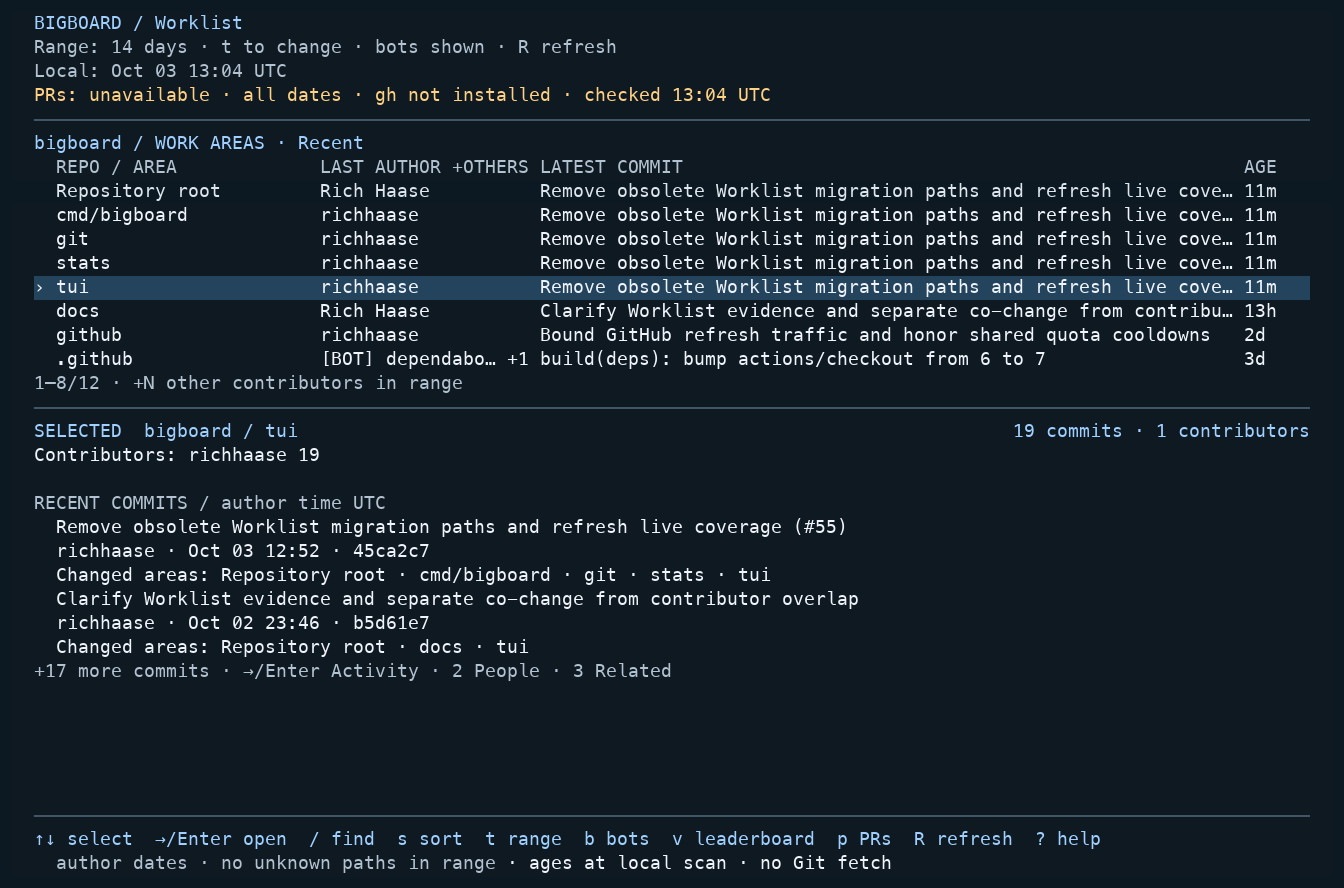
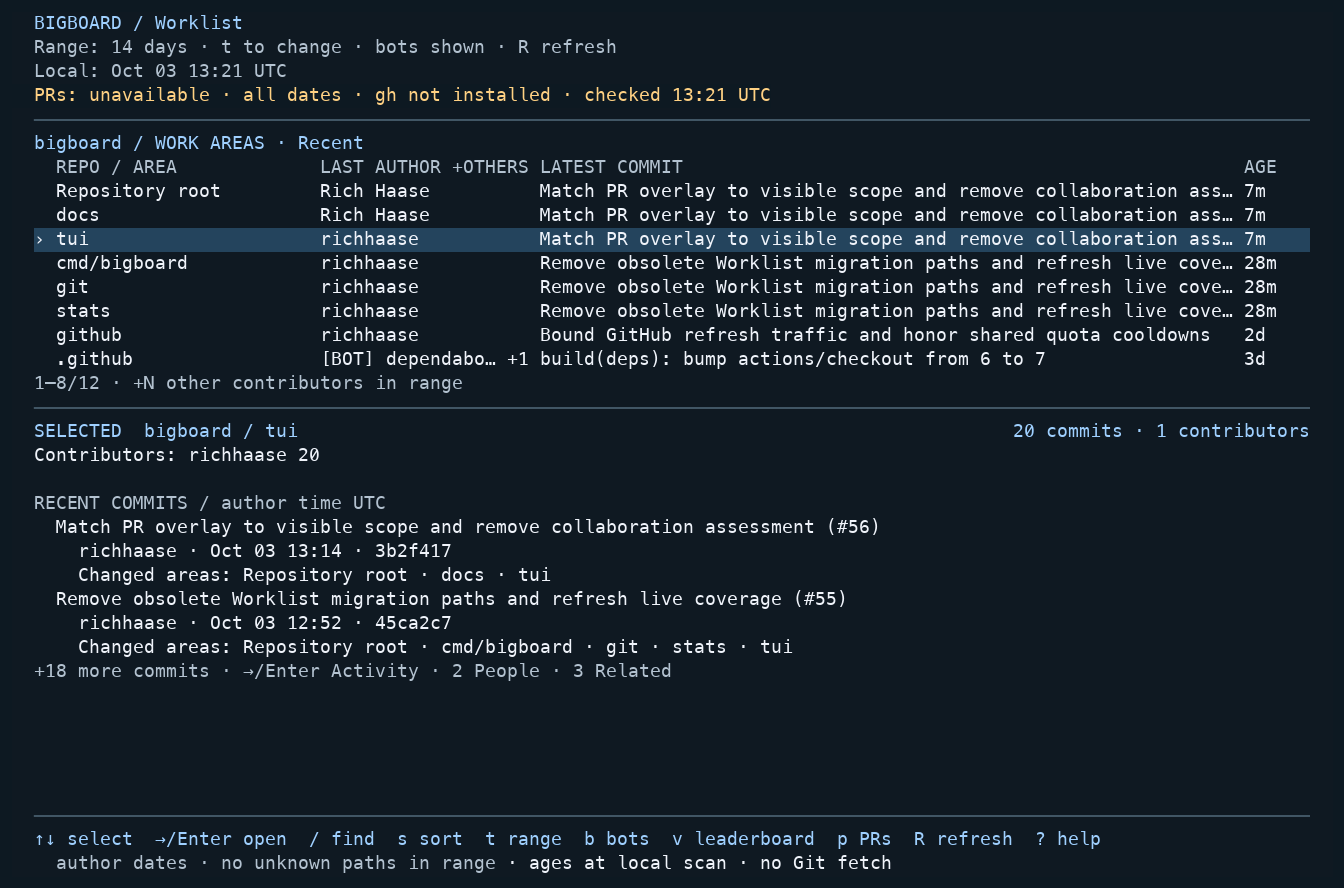
Fix PR overlay scope shortcuts and indent commit metadata

Changed region(s): [[0.0, 0.2128, 1.0, 0.3649], [0.0312, 0.5777, 0.6562, 0.7601], [0.1562, 0.0608, 0.1875, 0.0912]]

diff --git a/tui/pr_selection_test.go b/tui/pr_selection_test.go
@@ -96,3 +96,65 @@ func TestPRScopeRepositoryFallbackAndAllInventory(t *testing.T) {
 		t.Fatal("all-repository inventory was filtered by overview query")
 	}
 }
+
+func TestPROverlayScopeShortcuts(t *testing.T) {
+	for _, detail := range []bool{false, true} {
+		for _, query := range []string{"", "docs", "no-match"} {
+			m := prOnlySelectionFixture()
+			m.areaRepoID = "/api"
+			m.selectedAreaID = ""
+			m.glance.overviewQueries[1] = query
+			provider := &fakePRProvider{}
+			m.prProvider = provider
+			press := func(k string) {
+				t.Helper()
+				next, cmd := m.handleKey(key(k))
+				m = next.(Model)
+				if cmd != nil || provider.fetches != 0 || provider.resolves != 0 {
+					t.Fatalf("%s scheduled work", k)
+				}
+			}
+			press("P") // All-first must still resolve the visible scope on p.
+			for _, k := range []string{"p", "P", "P", "p", "p"} {
+				m.prDetail, m.prRow, m.prOffset = detail, 2, 8
+				press(k)
+				want := 3
+				if k == "p" {
+					want = map[string]int{"": 2, "docs": 1, "no-match": 0}[query]
+				}
+				if !m.showPRs || m.prAll != (k == "P") || m.prDetail || m.prRow != 0 || m.prOffset != 0 || len(m.visiblePRs()) != want {
+					t.Fatalf("detail=%v query=%q key=%s: all=%v detail=%v row=%d offset=%d count=%d want=%d", detail, query, k, m.prAll, m.prDetail, m.prRow, m.prOffset, len(m.visiblePRs()), want)
+				}
+			}
+			m.prDetail = true
+			press("esc")
+			if !m.showPRs || m.prDetail {
+				t.Fatal("Esc did not return to list")
+			}
+			press("esc")
+			if m.showPRs {
+				t.Fatal("Esc did not close list")
+			}
+		}
+	}
+}
+
+func TestPROverlayScopeEmptySnapshotAndParentDetail(t *testing.T) {
+	m := prOnlySelectionFixture()
+	m.areaRepoID, m.selectedAreaID = "/api", "root"
+	m = pressAwareness(m, "enter")
+	m = pressAwareness(m, "P")
+	next, cmd := m.handleKey(key("p"))
+	m = next.(Model)
+	if cmd != nil || len(m.visiblePRs()) != 2 || !m.glance.detailOpen {
+		t.Fatal("switching from all lost parent detail scope")
+	}
+	m.prState.snapshots = nil
+	for _, k := range []string{"P", "p"} {
+		next, cmd = m.handleKey(key(k))
+		m = next.(Model)
+		if cmd != nil || len(m.visiblePRs()) != 0 || !strings.Contains(m.View(), "No PRs to display") {
+			t.Fatal("empty snapshot must remain empty without fetching")
+		}
+	}
+}

diff --git a/tui/worklist_test.go b/tui/worklist_test.go
@@ -182,3 +182,46 @@ func TestWorklistFailureColorSurvivesTruncation(t *testing.T) {
 		t.Fatal("success state has warning color")
 	}
 }
+
+func TestWorklistCommitMetadataHierarchy(t *testing.T) {
+	for _, width := range []int{40, 80, 120} {
+		for _, lens := range []string{"overview", "activity", "related"} {
+			t.Run(fmt.Sprintf("%s/%d", lens, width), func(t *testing.T) {
+				m := monorepoFixture()
+				m.width, m.height = width, 36
+				m.selectedAreaID = "auto:services/auth"
+				if lens == "activity" || (lens == "overview" && width < 110) {
+					m = pressAwareness(m, "enter")
+				} else if lens == "related" {
+					m = pressAwareness(m, "3")
+				}
+				lines := strings.Split(ansi.Strip(m.View()), "\n")
+				found := false
+				for i, line := range lines {
+					if !strings.Contains(line, "Renew sessions") {
+						continue
+					}
+					if i+2 >= len(lines) || !strings.Contains(lines[i+2], "Changed areas:") {
+						continue // A list row may also contain the title.
+					}
+					found = true
+					titleColumn := ansi.StringWidth(line[:strings.Index(line, "Renew sessions")])
+					for _, metadata := range lines[i+1 : i+3] {
+						indent := len(metadata) - len(strings.TrimLeft(metadata, " "))
+						if indent != titleColumn+2 {
+							t.Fatalf("metadata indent %d; title starts at %d: %q", indent, titleColumn, metadata)
+						}
+					}
+				}
+				if !found && (lens != "related" || width != 40) {
+					t.Fatal("commit preview not found")
+				}
+				for _, line := range lines {
+					if ansi.StringWidth(line) > width {
+						t.Fatalf("line exceeds %d columns: %q", width, line)
+					}
+				}
+			})
+		}
+	}
+}

diff --git a/tui/pullrequests.go b/tui/pullrequests.go
@@ -319,11 +319,34 @@ func (m Model) prStatus() string {
 	}
 	return label + refreshHint + " · p scope · P all"
 }
+
+// selectPRScope uses the visible Worklist selection and only retained PR data.
+func (m Model) selectPRScope(all bool) Model {
+	if !all && !m.glance.detailOpen {
+		// View resolves the highlighted row on a value copy. Persist it before
+		// the overlay reads its scope, including after opening all PRs first.
+		rows := m.glanceRepositories()
+		if len(rows) == 0 {
+			m.setSelectedScopeID("")
+		} else {
+			m.selectedRepository(rows)
+		}
+	}
+	m.showPRs = true
+	m.prAll = all
+	m.prDetail = false
+	m.prRow = 0
+	m.prOffset = 0
+	return m
+}
+
 func (m Model) handlePRKey(msg tea.KeyMsg) (tea.Model, tea.Cmd) {
 	switch msg.String() {
 	case "q", "ctrl+c":
 		return m.quit()
-	case "esc", "p":
+	case "p", "P":
+		m = m.selectPRScope(msg.String() == "P")
+	case "esc":
 		if m.prDetail {
 			m.prDetail = false
 			m.prOffset = 0

diff --git a/tui/glance.go b/tui/glance.go
@@ -152,21 +152,7 @@ func (m Model) handleAwarenessKey(msg tea.KeyMsg) (tea.Model, tea.Cmd) {
 	}
 	switch key {
 	case "p", "P":
-		if key == "p" && !m.glance.detailOpen {
-			// View resolves the highlighted row on a value copy. Persist the same
-			// filtered/sorted selection before the overlay reads its scope.
-			rows := m.glanceRepositories()
-			if len(rows) == 0 {
-				m.setSelectedScopeID("")
-			} else {
-				m.selectedRepository(rows)
-			}
-		}
-		m.showPRs = true
-		m.prAll = key == "P"
-		m.prDetail = false
-		m.prRow = 0
-		m.prOffset = 0
+		m = m.selectPRScope(key == "P")
 		return m, nil
 	case "v":
 		m.viewMode = ViewAggregate

diff --git a/tui/worklist_evidence.go b/tui/worklist_evidence.go
@@ -126,7 +126,7 @@ func (m Model) worklistCommit(r git.CommitRecord, people []stats.AuthorStats, wi
 		cursor = "› "
 	}
 	stamp := r.Date.Local().Format("Jan 02 15:04")
-	lines := []string{cursor + subject, "  " + author + " · " + stamp + " · " + hash, "  Changed areas: " + strings.Join(m.commitAreaNames(r), " · ")}
+	lines := []string{cursor + subject, "    " + author + " · " + stamp + " · " + hash, "    Changed areas: " + strings.Join(m.commitAreaNames(r), " · ")}
 	for i, line := range lines {
 		style := lipgloss.NewStyle()
 		if selected && line != "" {

diff --git a/docs/visual-guide.md b/docs/visual-guide.md
@@ -21,6 +21,9 @@ and keeps local history usable. See [capture details](#capture-details).
 *Overview, 120 × 36. `tui` is the only selected row. The list shows where recent
 work happened; the lower pane explains that selected area's history.*
 
+Within each commit preview, the author/date/hash and changed areas are indented
+beneath the title.
+
 Read the top list **area → latest contributor + others → latest commit → age**. Recent is the default sort. `s` cycles Recent, Name, and Activity
 (commit count). Commit volume is not priority or productivity.
 
@@ -178,8 +181,9 @@ From Worklist, `p` opens the highlighted repository/parent-area inventory,
 including the default first row immediately after entering a repository. An
 accepted name search changes that visible scope; no matching rows means no
 scoped PRs. `P` opens all included repositories regardless of that search. PRs use **all open dates**, independent of local
-range, bot, person, and commit-search filters. In the PR overlay, `Enter` toggles
-detail, `↑/↓` scrolls, and `Esc` or `p` backs out one level. `R` there refreshes
+range, bot, person, and commit-search filters. Inside the overlay, `p` selects the current scope and `P` selects all included
+repositories, returning to the first list row without fetching. `Enter` toggles
+detail, `↑/↓` scrolls, and `Esc` backs out one level. `R` there refreshes
 **PRs only**; it does not start a local Git scan.
 
 GitHub context uses an already installed and authenticated `gh` CLI. Bigboard
@@ -210,9 +214,10 @@ for search, quit, and overlay behavior.
 
 ## Capture details
 
-Worklist overview, Activity detail, Related, and contributor-overlap images were
-recaptured on October 3, 2026 after removing the assessment section, scanning
-public Bigboard history at [45ca2c7](https://github.com/richhaase/bigboard/commit/45ca2c746813b14b8ceb6d9b3987ddbf02490af5).
+Worklist overview, Activity detail, and Related images were recaptured on
+October 3, 2026 with indented commit metadata, scanning public Bigboard history
+at [3b2f417](https://github.com/richhaase/bigboard/commit/3b2f417bba9864b590e7201eeb006ff8495b4ff4).
+The contributor-overlap image retains its October 3 capture at [45ca2c7](https://github.com/richhaase/bigboard/commit/45ca2c746813b14b8ceb6d9b3987ddbf02490af5).
 The other screenshots retain their October 2, 2026 capture, scanning history at
 [d510eb2](https://github.com/richhaase/bigboard/commit/d510eb299b849696ee1402a0ef8294f773b0e384)
 in an isolated local clone named `bigboard`. The capture config sets `since` to

diff --git a/README.md b/README.md
@@ -254,7 +254,9 @@ return to a list or detail lens to open the picker.
 ### PR and repository overlays
 
 In the **PR overlay**, `↑/↓` or `j/k` selects PRs or scrolls the open PR detail.
-`Enter` toggles detail; `Esc` or `p` backs out one level. `R` requests **PR data
+`p` selects the current scope and `P` selects all included repositories; either
+returns to the first PR in the list using cached data. `Enter` toggles detail;
+`Esc` backs out one level. `R` requests **PR data
 only**. `q` or `Ctrl+C` quits. Page and Home/End keys are not used here.
 
 In **repository controls**, `↑/↓` or `j/k` selects and `Space` toggles inclusion.
